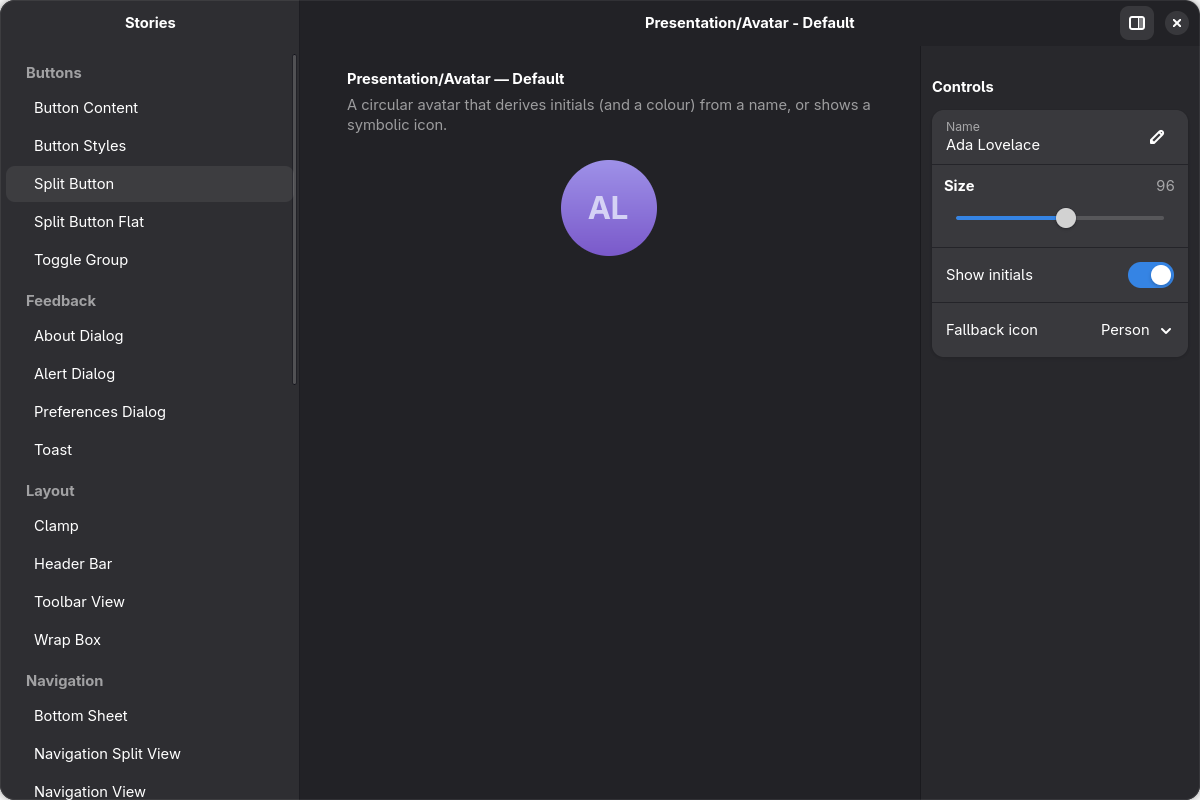
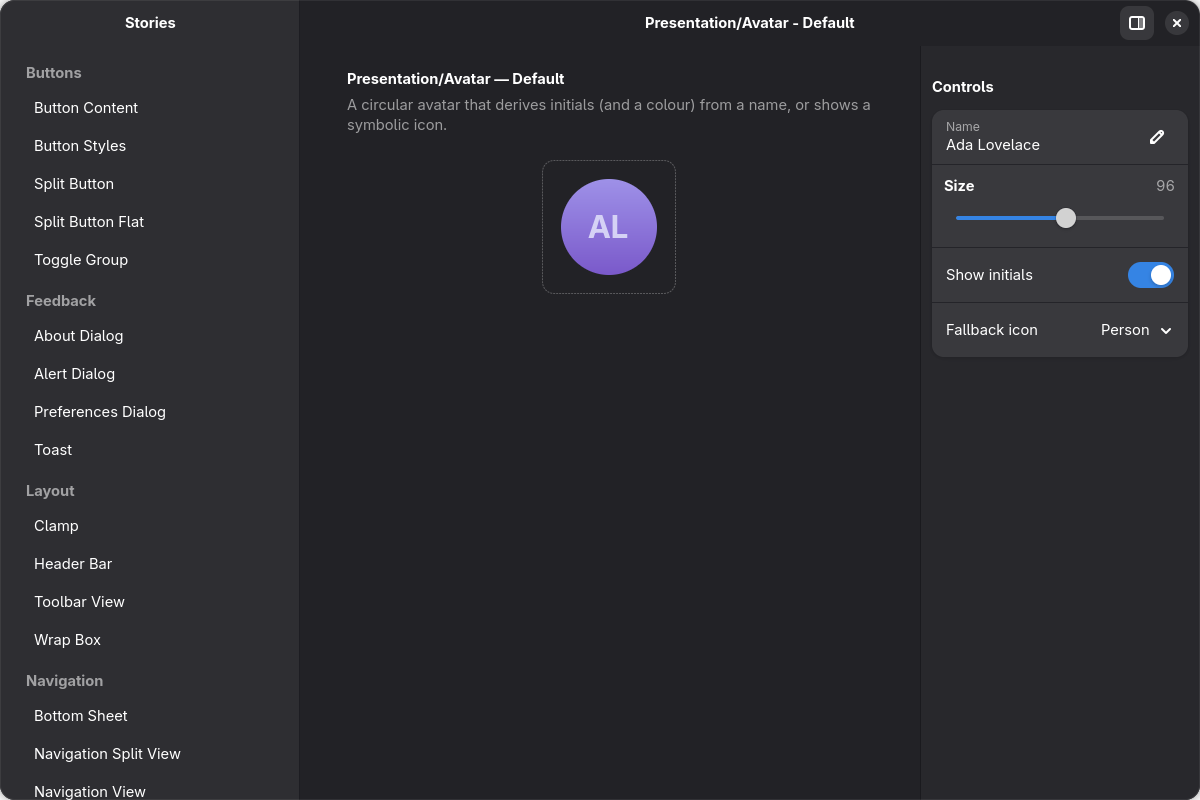
feat(storybook): outline the story preview stage
A story's preview slot was invisible when the widget itself is transparent or in an empty
state — e.g. a collapsed Adw.BottomSheet showed only a floating button with no hint of where
the widget actually lives. Give the default-chrome content slot a subtle dashed frame
(.story-stage, currentColor-based so it adapts to light/dark) so every widget's bounds stay
locatable. Template-based stories that manage their own layout are unaffected.

Requested while reviewing the Adwaita storybook showcase.

Changed region(s): [[0.4625, 0.1875, 0.555, 0.3438]]

diff --git a/packages/framework/storybook/src/styles.ts b/packages/framework/storybook/src/styles.ts
@@ -12,4 +12,13 @@ export const STORYBOOK_CSS = `
 .story-range-row > box {
     border-radius: 12px;
 }
+
+/* Subtle dashed frame around the live preview so the widget's bounds stay
+   locatable even when it is transparent or in an empty state (e.g. a collapsed
+   bottom sheet, a status page, a bare button). currentColor adapts to light/dark. */
+.story-stage {
+    border: 1px dashed alpha(currentColor, 0.25);
+    border-radius: 12px;
+    padding: 18px;
+}
 `;

diff --git a/packages/framework/storybook/src/story-widget.ts b/packages/framework/storybook/src/story-widget.ts
@@ -152,6 +152,9 @@ export class StoryWidget extends Adw.Bin {
             spacing: 12,
             hexpand: true,
         });
+        // Subtle dashed frame so the preview's bounds are visible even when the
+        // widget itself is transparent or in an empty state (see `.story-stage`).
+        content.add_css_class('story-stage');
 
         group.add(content);
         page.add(group);
